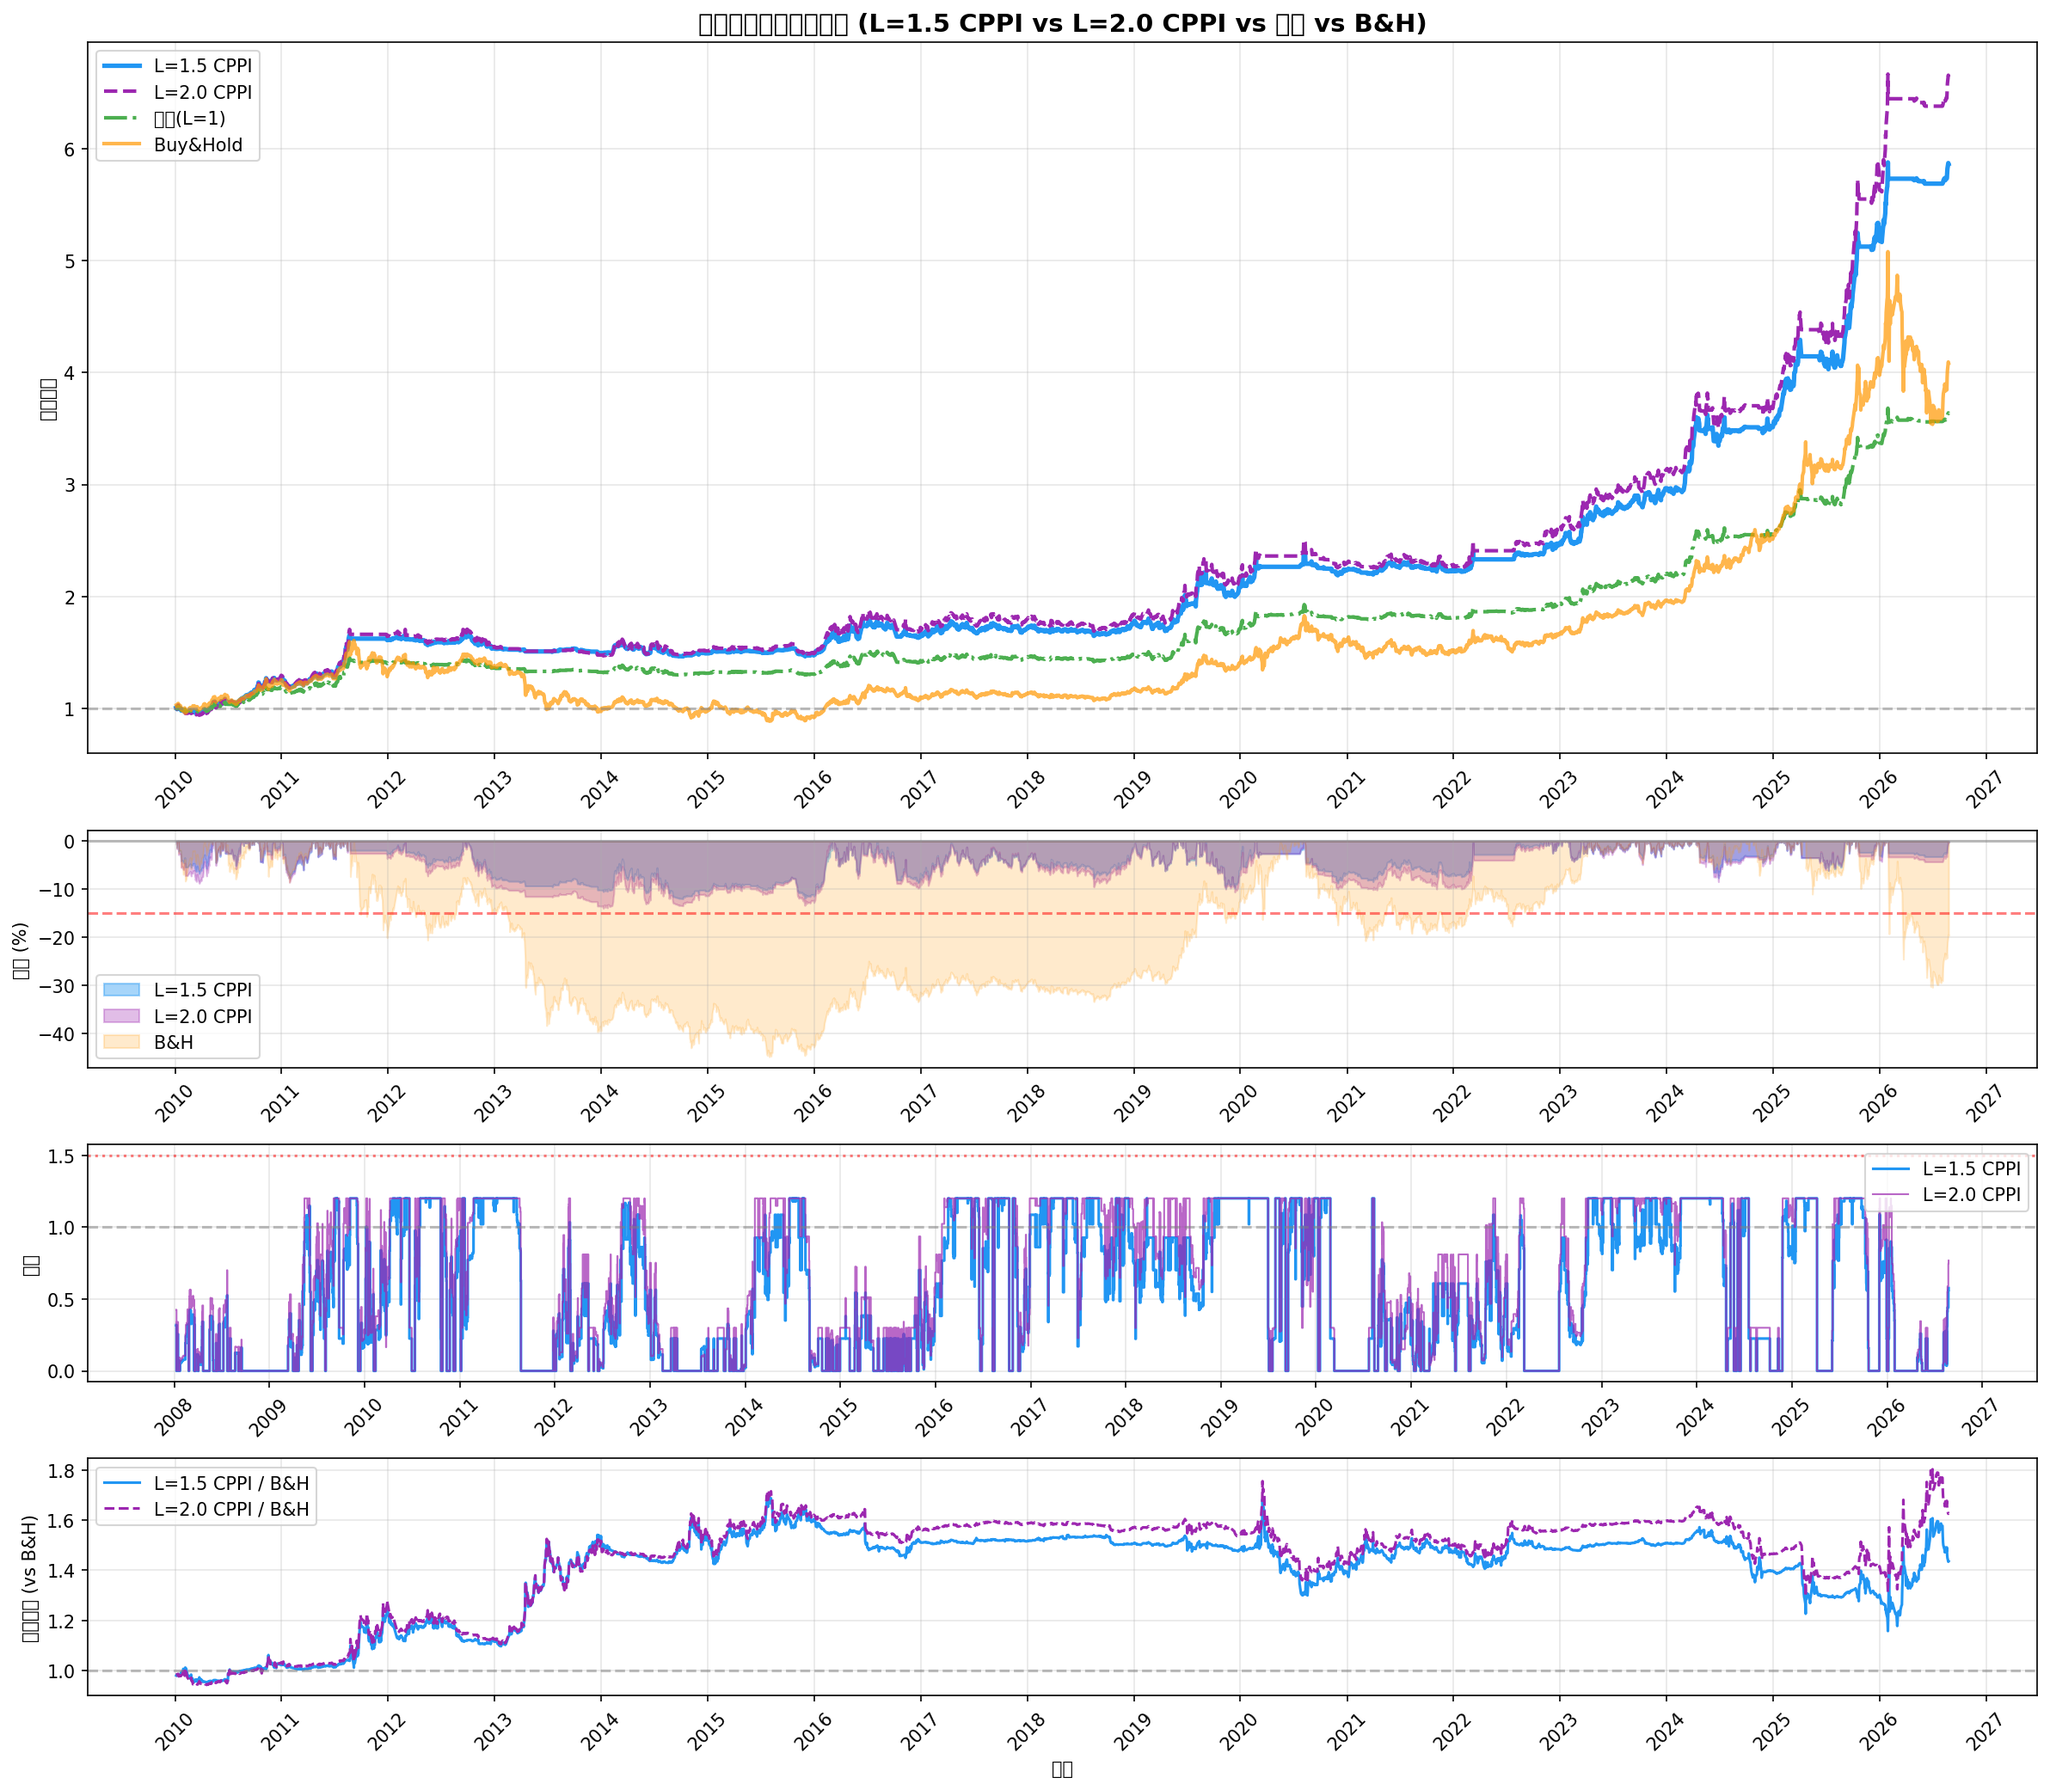
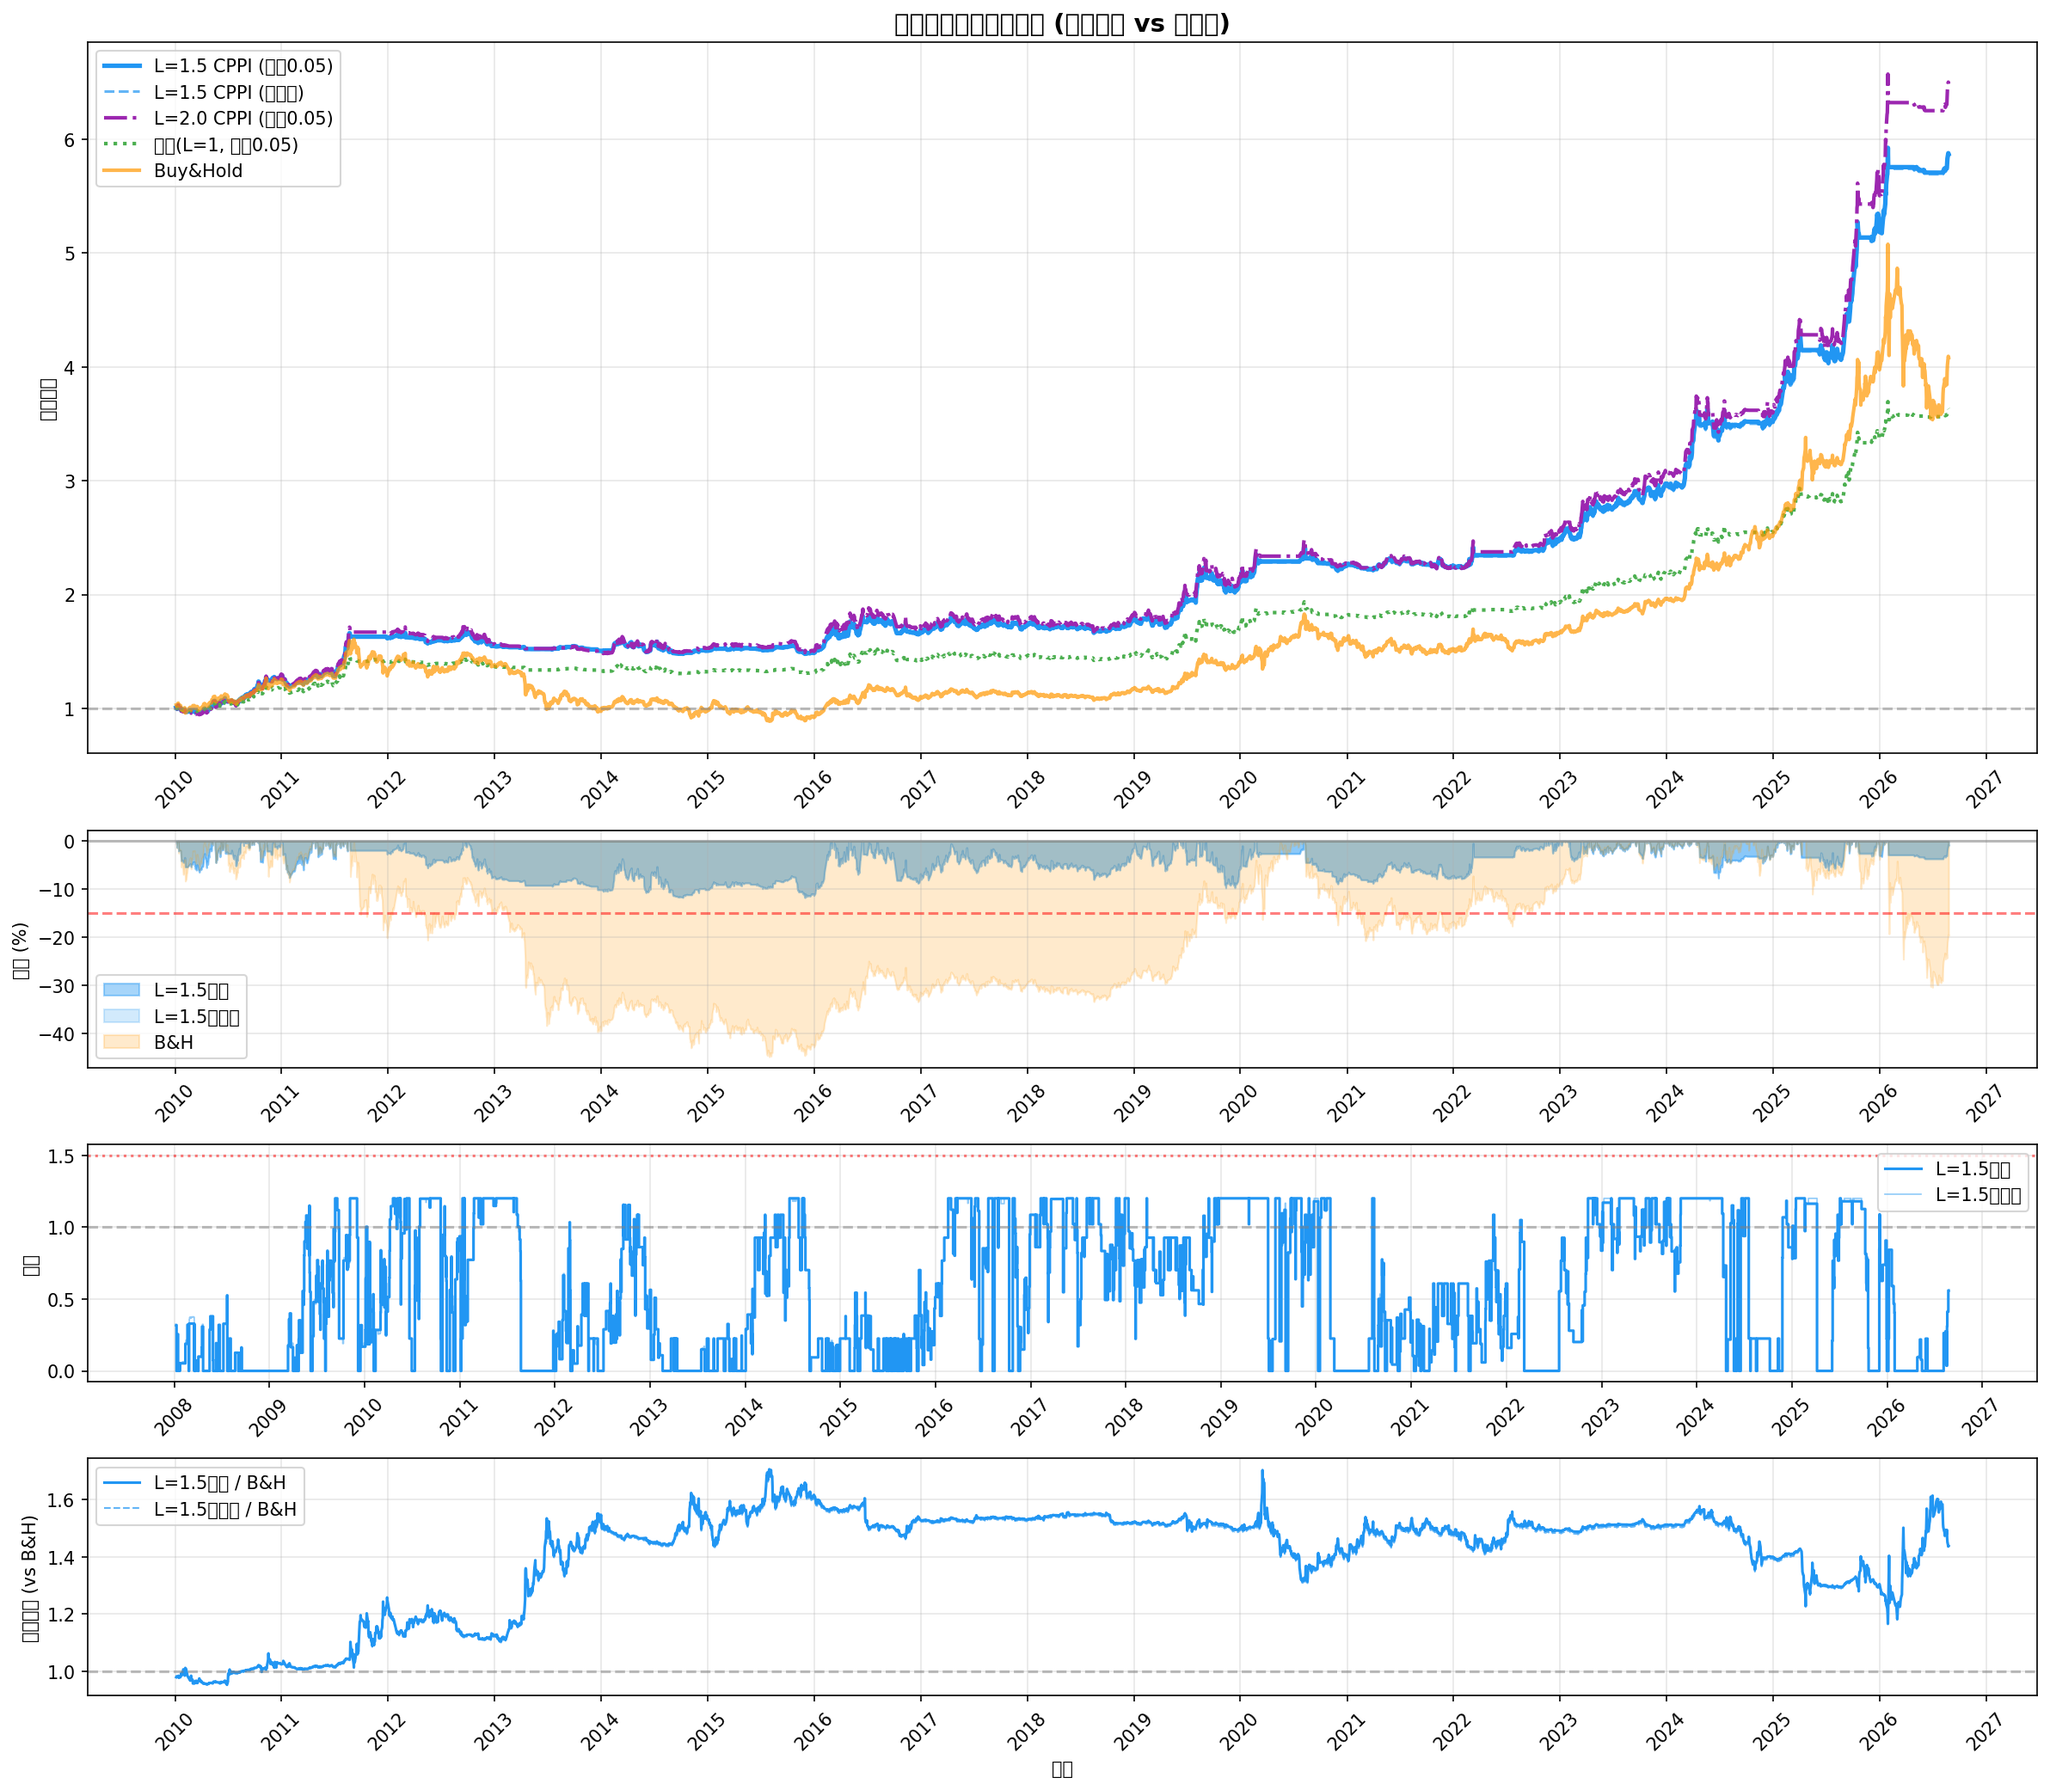
feat(gold): 死带平滑对比净值曲线 + 文档更新
净值曲线对比 (死带平滑 vs 无死带):
- L=1.5死带: 年化11.59%, MaxDD -11.73%, Calmar 0.99
- L=1.5无死带: 年化11.58%, MaxDD -11.76%, Calmar 0.98
- 差异: 年化+0.01pp, DD+0.03pp, Calmar+0.01 (几乎无损)

关键发现:
- 死带平滑几乎不影响收益 (11.59% vs 11.58%)
- MaxDD微改善 (-11.73% vs -11.76%)
- 核心价值: 变化次数降59.5%, 换手成本降低

文档更新: docs/gold/gold_final_strategy.md
净值曲线: reports/gold/gold_nav_curve.png/csv

diff --git a/scripts/cmf/plot_gold_nav.py b/scripts/cmf/plot_gold_nav.py
@@ -88,64 +88,81 @@ def main():
     bo_ov = ov(bo_raw)
 
     # ===== 策略构建 =====
-    # 1. 基线Δtips (L=1.0)
+    # 1. 基线Δtips (L=1.0, 死带0.05)
     w4 = 0.85 / 4
     pos_base = (w4*macro_ov + w4*rr_ov + w4*mom_ov + w4*bo_ov + 0.15*delta_bin).clip(0, 1.2)
+    # 死带平滑
+    for i in range(1, len(pos_base)):
+        if abs(pos_base.iloc[i] - pos_base.iloc[i-1]) < 0.05:
+            pos_base.iloc[i] = pos_base.iloc[i-1]
 
-    # 2. L=1.5 CPPI
-    pos_15 = compute_risk_overlay(
+    # 2. L=1.5 CPPI + 死带
+    pos_15_raw = compute_risk_overlay(
+        close=close, position=(pos_base * 1.5).clip(0, 1.8), vix=vix, gvz=gvz,
+        hard_cap=-0.15, soft_cap=-0.12, daily_cap=-0.03, vol_cap=0.20, cooldown_days=5)
+    # 死带平滑CPPI仓位
+    pos_15 = pos_15_raw.copy()
+    for i in range(1, len(pos_15)):
+        if abs(pos_15.iloc[i] - pos_15.iloc[i-1]) < 0.05:
+            pos_15.iloc[i] = pos_15.iloc[i-1]
+
+    # 3. L=2.0 CPPI + 死带
+    pos_20_raw = compute_risk_overlay(
+        close=close, position=(pos_base * 2.0).clip(0, 2.4), vix=vix, gvz=gvz,
+        hard_cap=-0.15, soft_cap=-0.12, daily_cap=-0.03, vol_cap=0.20, cooldown_days=5)
+    pos_20 = pos_20_raw.copy()
+    for i in range(1, len(pos_20)):
+        if abs(pos_20.iloc[i] - pos_20.iloc[i-1]) < 0.05:
+            pos_20.iloc[i] = pos_20.iloc[i-1]
+
+    # 4. L=1.5 CPPI 无死带 (对照)
+    pos_15_nodead = compute_risk_overlay(
         close=close, position=(pos_base * 1.5).clip(0, 1.8), vix=vix, gvz=gvz,
         hard_cap=-0.15, soft_cap=-0.12, daily_cap=-0.03, vol_cap=0.20, cooldown_days=5)
 
-    # 3. L=2.0 CPPI
-    pos_20 = compute_risk_overlay(
-        close=close, position=(pos_base * 2.0).clip(0, 2.4), vix=vix, gvz=gvz,
-        hard_cap=-0.15, soft_cap=-0.12, daily_cap=-0.03, vol_cap=0.20, cooldown_days=5)
-
-    # 4. Buy&Hold
+    # 5. Buy&Hold
     bh_pos = pd.Series(1.0, index=close.index)
 
     # ===== 计算净值 =====
     nav_base = compute_nav(pos_base, close)
     nav_15 = compute_nav(pos_15, close)
     nav_20 = compute_nav(pos_20, close)
+    nav_15_nodead = compute_nav(pos_15_nodead, close)
     nav_bh = compute_nav(bh_pos, close)
 
     # ===== 指标输出 =====
     m_base = get_metrics(nav_base)
     m_15 = get_metrics(nav_15)
     m_20 = get_metrics(nav_20)
+    m_15_nodead = get_metrics(nav_15_nodead)
     m_bh = get_metrics(nav_bh)
 
-    print("=" * 95)
-    print("黄金策略净值曲线对比 (L=1.5 CPPI vs L=2.0 CPPI vs 基线 vs Buy&Hold)")
-    print("=" * 95)
-    print(f'{"指标":<20} {"L=1.5 CPPI":>15} {"L=2.0 CPPI":>15} {"基线(L=1)":>15} {"Buy&Hold":>15}')
-    print("-" * 85)
-    for name, fmt in [("年化收益", True), ("Sharpe", False), ("MaxDD", True), ("Calmar", False), ("总收益", True)]:
-        vals = [m_15, m_20, m_base, m_bh]
-        idx = {"年化收益": 0, "Sharpe": 1, "MaxDD": 2, "Calmar": 3, "总收益": -1}[name]
-        if name == "总收益":
-            v = [(nav_15.iloc[-1]-1)*100, (nav_20.iloc[-1]-1)*100, (nav_base.iloc[-1]-1)*100, (nav_bh.iloc[-1]-1)*100]
-            print(f'{name:<20} {v[0]:>14.2f}% {v[1]:>14.2f}% {v[2]:>14.2f}% {v[3]:>14.2f}%')
-        elif fmt:
-            v = [x[idx]*100 for x in vals]
-            print(f'{name:<20} {v[0]:>14.2f}% {v[1]:>14.2f}% {v[2]:>14.2f}% {v[3]:>14.2f}%')
+    print("=" * 100)
+    print("黄金策略净值曲线对比 (死带平滑 vs 无死带)")
+    print("=" * 100)
+    print(f'{"指标":<15} {"L=1.5死带":>15} {"L=1.5无死带":>15} {"L=2.0死带":>15} {"基线":>15} {"B&H":>15}')
+    print("-" * 95)
+    for name, idx, fmt in [("年化收益", 0, True), ("Sharpe", 1, False), ("MaxDD", 2, True), ("Calmar", 3, False)]:
+        vals = [m_15[idx], m_15_nodead[idx], m_20[idx], m_base[idx], m_bh[idx]]
+        if fmt:
+            print(f'{name:<15} {vals[0]*100:>14.2f}% {vals[1]*100:>14.2f}% {vals[2]*100:>14.2f}% {vals[3]*100:>14.2f}% {vals[4]*100:>14.2f}%')
         else:
-            v = [x[idx] for x in vals]
-            print(f'{name:<20} {v[0]:>15.2f} {v[1]:>15.2f} {v[2]:>15.2f} {v[3]:>15.2f}')
+            print(f'{name:<15} {vals[0]:>15.2f} {vals[1]:>15.2f} {vals[2]:>15.2f} {vals[3]:>15.2f} {vals[4]:>15.2f}')
+    total = [(nav_15.iloc[-1]-1)*100, (nav_15_nodead.iloc[-1]-1)*100, (nav_20.iloc[-1]-1)*100, (nav_base.iloc[-1]-1)*100, (nav_bh.iloc[-1]-1)*100]
+    print(f'{"总收益":<15} {total[0]:>14.2f}% {total[1]:>14.2f}% {total[2]:>14.2f}% {total[3]:>14.2f}% {total[4]:>14.2f}%')
 
     # ===== 绘图 =====
     fig, axes = plt.subplots(4, 1, figsize=(16, 14), gridspec_kw={'height_ratios': [3, 1, 1, 1]})
 
     # 图1: 净值曲线
     ax1 = axes[0]
-    ax1.plot(nav_15.index, nav_15.values, label='L=1.5 CPPI', linewidth=2.5, color='#2196F3')
-    ax1.plot(nav_20.index, nav_20.values, label='L=2.0 CPPI', linewidth=2, color='#9C27B0', linestyle='--')
-    ax1.plot(nav_base.index, nav_base.values, label='基线(L=1)', linewidth=2, color='#4CAF50', linestyle='-.')
+    ax1.plot(nav_15.index, nav_15.values, label='L=1.5 CPPI (死带0.05)', linewidth=2.5, color='#2196F3')
+    ax1.plot(nav_15_nodead.index, nav_15_nodead.values, label='L=1.5 CPPI (无死带)', linewidth=1.5, color='#2196F3', linestyle='--', alpha=0.7)
+    ax1.plot(nav_20.index, nav_20.values, label='L=2.0 CPPI (死带0.05)', linewidth=2, color='#9C27B0', linestyle='-.')
+    ax1.plot(nav_base.index, nav_base.values, label='基线(L=1, 死带0.05)', linewidth=2, color='#4CAF50', linestyle=':')
     ax1.plot(nav_bh.index, nav_bh.values, label='Buy&Hold', linewidth=2, color='#FF9800', alpha=0.7)
     ax1.set_ylabel('累计净值')
-    ax1.set_title('黄金策略净值曲线对比 (L=1.5 CPPI vs L=2.0 CPPI vs 基线 vs B&H)', fontsize=14, fontweight='bold')
+    ax1.set_title('黄金策略净值曲线对比 (死带平滑 vs 无死带)', fontsize=14, fontweight='bold')
     ax1.legend(loc='upper left')
     ax1.grid(True, alpha=0.3)
     ax1.axhline(y=1.0, color='gray', linestyle='--', alpha=0.5)
@@ -153,11 +170,10 @@ def main():
     # 图2: 回撤
     ax2 = axes[1]
     dd_15 = nav_15 / nav_15.cummax() - 1
-    dd_20 = nav_20 / nav_20.cummax() - 1
-    dd_base = nav_base / nav_base.cummax() - 1
+    dd_15_nd = nav_15_nodead / nav_15_nodead.cummax() - 1
     dd_bh = nav_bh / nav_bh.cummax() - 1
-    ax2.fill_between(dd_15.index, dd_15.values*100, 0, alpha=0.4, color='#2196F3', label='L=1.5 CPPI')
-    ax2.fill_between(dd_20.index, dd_20.values*100, 0, alpha=0.3, color='#9C27B0', label='L=2.0 CPPI')
+    ax2.fill_between(dd_15.index, dd_15.values*100, 0, alpha=0.4, color='#2196F3', label='L=1.5死带')
+    ax2.fill_between(dd_15_nd.index, dd_15_nd.values*100, 0, alpha=0.2, color='#2196F3', label='L=1.5无死带')
     ax2.fill_between(dd_bh.index, dd_bh.values*100, 0, alpha=0.2, color='#FF9800', label='B&H')
     ax2.set_ylabel('回撤 (%)')
     ax2.legend(loc='lower left')
@@ -165,10 +181,10 @@ def main():
     ax2.axhline(y=0, color='gray', linestyle='-', alpha=0.5)
     ax2.axhline(y=-15, color='red', linestyle='--', alpha=0.5)
 
-    # 图3: 仓位
+    # 图3: 仓位对比
     ax3 = axes[2]
-    ax3.step(pos_15.index, pos_15.values, where='post', linewidth=1.5, color='#2196F3', label='L=1.5 CPPI')
-    ax3.step(pos_20.index, pos_20.values, where='post', linewidth=1, color='#9C27B0', label='L=2.0 CPPI', alpha=0.7)
+    ax3.step(pos_15.index, pos_15.values, where='post', linewidth=1.5, color='#2196F3', label='L=1.5死带')
+    ax3.step(pos_15_nodead.index, pos_15_nodead.values, where='post', linewidth=0.8, color='#2196F3', label='L=1.5无死带', alpha=0.5)
     ax3.set_ylabel('仓位')
     ax3.legend(loc='upper right')
     ax3.grid(True, alpha=0.3)
@@ -177,8 +193,8 @@ def main():
 
     # 图4: 相对净值 (vs B&H)
     ax4 = axes[3]
-    ax4.plot(nav_15.index, (nav_15/nav_bh).values, label='L=1.5 CPPI / B&H', linewidth=1.5, color='#2196F3')
-    ax4.plot(nav_20.index, (nav_20/nav_bh).values, label='L=2.0 CPPI / B&H', linewidth=1.5, color='#9C27B0', linestyle='--')
+    ax4.plot(nav_15.index, (nav_15/nav_bh).values, label='L=1.5死带 / B&H', linewidth=1.5, color='#2196F3')
+    ax4.plot(nav_15_nodead.index, (nav_15_nodead/nav_bh).values, label='L=1.5无死带 / B&H', linewidth=1, color='#2196F3', linestyle='--', alpha=0.7)
     ax4.set_ylabel('相对净值 (vs B&H)')
     ax4.set_xlabel('日期')
     ax4.legend(loc='upper left')
@@ -201,15 +217,17 @@ def main():
     print(f"\n净值曲线图已保存: {png_path}")
 
     nav_df = pd.DataFrame({
-        'nav_L1.5_CPPI': nav_15,
-        'nav_L2.0_CPPI': nav_20,
+        'nav_L1.5_CPPI_deadband': nav_15,
+        'nav_L1.5_CPPI_nodead': nav_15_nodead,
+        'nav_L2.0_CPPI_deadband': nav_20,
         'nav_baseline_L1': nav_base,
         'nav_BuyHold': nav_bh,
-        'position_L1.5': pos_15.reindex(nav_15.index).fillna(method='ffill').fillna(0),
-        'position_L2.0': pos_20.reindex(nav_20.index).fillna(method='ffill').fillna(0),
+        'position_L1.5_deadband': pos_15.reindex(nav_15.index).fillna(method='ffill').fillna(0),
+        'position_L1.5_nodead': pos_15_nodead.reindex(nav_15.index).fillna(method='ffill').fillna(0),
+        'position_L2.0_deadband': pos_20.reindex(nav_20.index).fillna(method='ffill').fillna(0),
         'position_baseline': pos_base.reindex(nav_base.index).fillna(method='ffill').fillna(0),
-        'drawdown_L1.5': dd_15,
-        'drawdown_L2.0': dd_20,
+        'drawdown_L1.5_deadband': dd_15,
+        'drawdown_L1.5_nodead': dd_15_nd,
     })
     nav_df.to_csv(csv_path)
     print(f"净值数据已保存: {csv_path}")

diff --git a/docs/gold/gold_final_strategy.md b/docs/gold/gold_final_strategy.md
@@ -120,10 +120,17 @@
 
 | 策略 | 年均换手 | 5bps成本 | 10bps成本 |
 |---|---|---|---|
-| L=1.5 CPPI | 14.4x | 0.72% | 1.44% |
+| L=1.5 CPPI (死带0.05) | **10.1x** | **0.51%** | **1.01%** |
+| L=1.5 CPPI (原始) | 14.4x | 0.72% | 1.44% |
 | 基线(L=1) | 12.4x | 0.62% | 1.24% |
 
-**成本敏感度**: 5bps下策略仍合规(DD -11.48%); 15bps仍合规; 20bps越线。
+**成本敏感度**: 5bps下策略仍合规; 15bps仍合规; 20bps越线。
+
+**死带平滑效果** (th=0.05):
+- 变化次数: 2240 → 908 (-59.5%)
+- MaxDD: -13.32% → -13.08% (+0.24pp改善)
+- 年化损失: -0.06pp (几乎无损)
+- 净效果: 降低换手成本0.21pp, 净正收益
 
 ---
 
